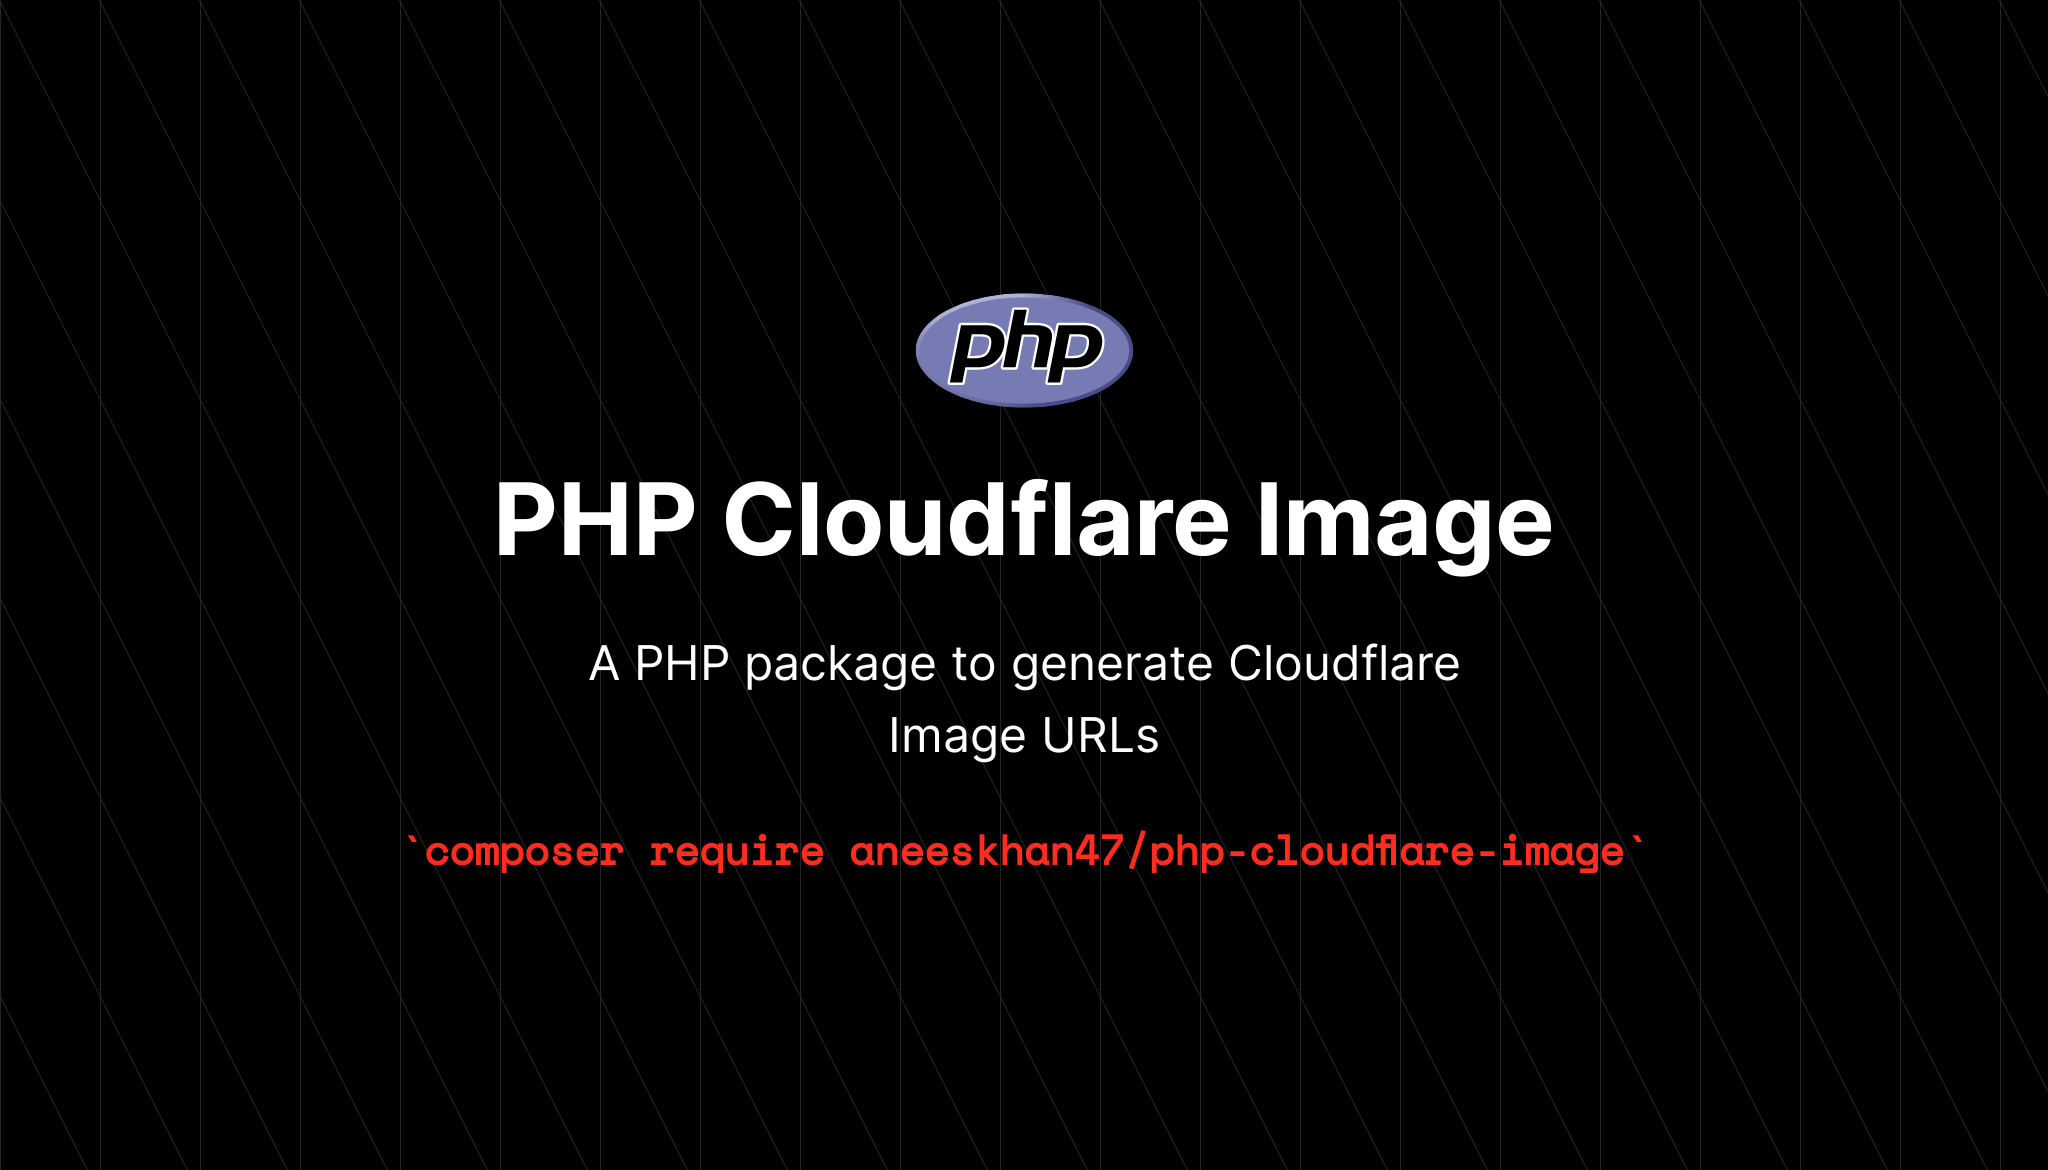
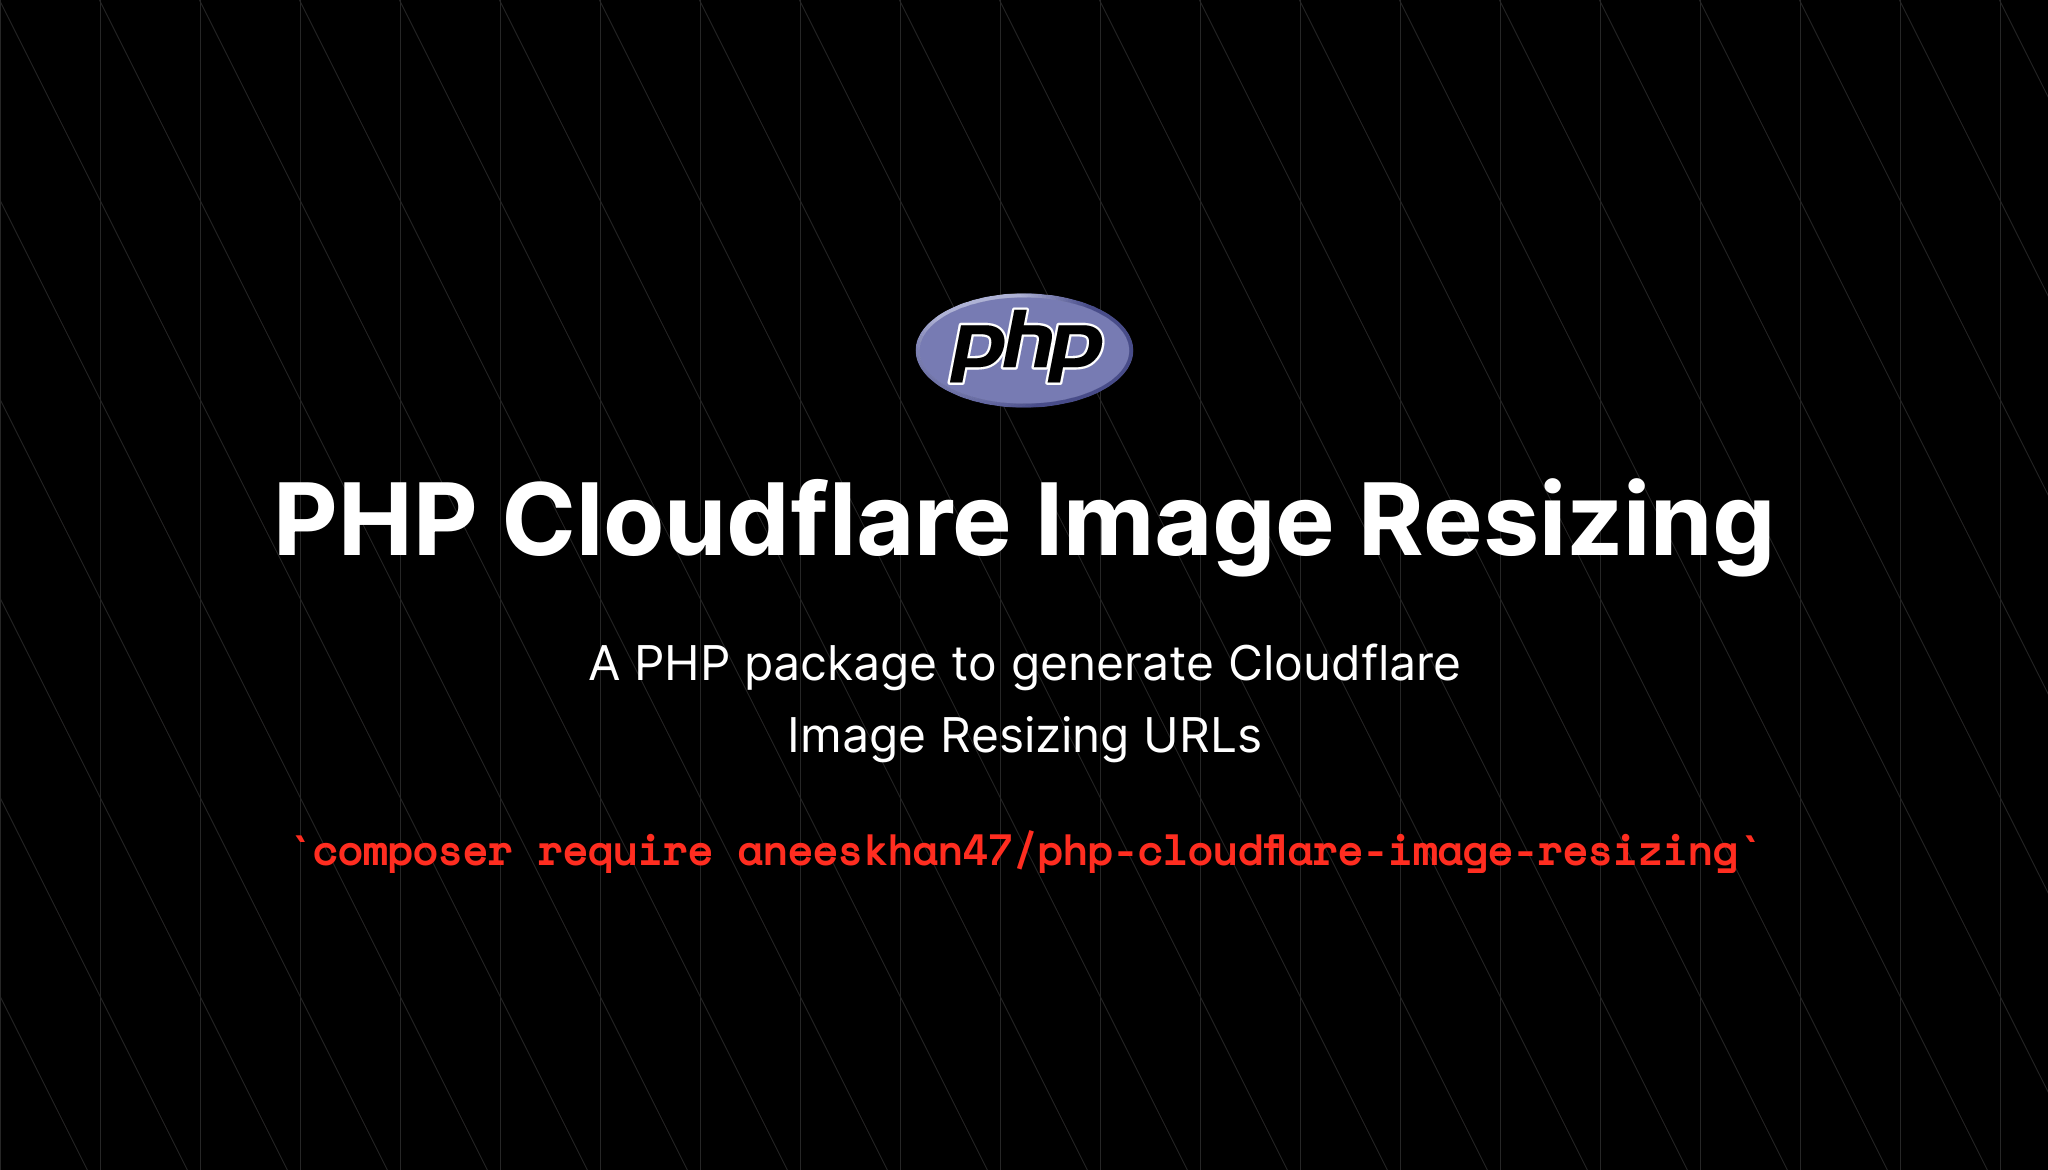
Changed package name

Changed region(s): [[0.125, 0.4, 0.875, 0.4923], [0.1562, 0.7077, 0.8438, 0.7385], [0.375, 0.6154, 0.625, 0.6462]]

diff --git a/tests/CFImageTest.php b/tests/CFImageTest.php
@@ -1,11 +1,11 @@
 <?php
 
-use AneesKhan47\CloudflareImage\CFImage;
+use AneesKhan47\CloudflareImageResizing\CFImageResizing;
 
 it('will modify the image url to have /cdn-cgi/image', function () {
     $url = 'https://example.com/image.jpg';
 
-    $cfImage = CFImage::make($url);
+    $cfImage = CFImageResizing::make($url);
 
     expect($cfImage->build())->toBe('https://example.com/cdn-cgi/image/image.jpg');
 });
@@ -13,7 +13,7 @@ it('will modify the image url to have /cdn-cgi/image', function () {
 it('will modify the image url to have /cdn-cgi/image if the url has a path', function () {
     $url = 'https://example.com/uploads/2023/image.jpg';
 
-    $cfImage = CFImage::make($url);
+    $cfImage = CFImageResizing::make($url);
 
     expect($cfImage->build())->toBe('https://example.com/cdn-cgi/image/uploads/2023/image.jpg');
 });
@@ -21,7 +21,7 @@ it('will modify the image url to have /cdn-cgi/image if the url has a path', fun
 it('will modify the image url to have /cdn-cgi/image with options', function () {
     $url = 'https://example.com/image.jpg';
 
-    $cfImage = CFImage::make($url)
+    $cfImage = CFImageResizing::make($url)
         ->width(300)
         ->height(300)
         ->jpeg()
@@ -33,7 +33,7 @@ it('will modify the image url to have /cdn-cgi/image with options', function () 
 it('will not modify the image url if it already has /cdn-cgi/image', function () {
     $url = 'https://example.com/cdn-cgi/image/image.jpg';
 
-    $cfImage = CFImage::make($url);
+    $cfImage = CFImageResizing::make($url);
 
     expect($cfImage->build())->toBe('https://example.com/cdn-cgi/image/image.jpg');
 });

diff --git a/src/CFImageResizing.php b/src/CFImageResizing.php
@@ -2,17 +2,17 @@
 
 declare(strict_types=1);
 
-namespace AneesKhan47\CloudflareImage;
+namespace AneesKhan47\CloudflareImageResizing;
 
-use AneesKhan47\CloudflareImage\Concerns\HasOptions;
+use AneesKhan47\CloudflareImageResizing\Concerns\HasOptions;
 use Exception;
 
-final class CFImage
+final class CFImageResizing
 {
     use HasOptions;
 
     /**
-     * Create a new CFImage instance.
+     * Create a new CFImageResizing instance.
      *
      * @param  string|null  $url  The image URL.
      * @return void
@@ -23,7 +23,7 @@ final class CFImage
     }
 
     /**
-     * Make a new CFImage instance.
+     * Make a new CFImageResizing instance.
      *
      * @param  string|null  $url  The image URL.
      */

diff --git a/src/Concerns/HasOptions.php b/src/Concerns/HasOptions.php
@@ -2,7 +2,7 @@
 
 declare(strict_types=1);
 
-namespace AneesKhan47\CloudflareImage\Concerns;
+namespace AneesKhan47\CloudflareImageResizing\Concerns;
 
 trait HasOptions
 {

diff --git a/README.md b/README.md
@@ -1,16 +1,16 @@
 <p align="center">
-    <img src="https://raw.githubusercontent.com/aneeskhan47/php-cloudflare-image/main/art/banner.png" height="300" alt="PHP Cloudflare Image">
+    <img src="https://raw.githubusercontent.com/aneeskhan47/php-cloudflare-image-resizing/main/art/banner.png" height="300" alt="PHP Cloudflare Image">
     <p align="center">
-        <a href="https://github.com/aneeskhan47/php-cloudflare-image/actions"><img alt="GitHub Workflow Status (master)" src="https://github.com/aneeskhan47/php-cloudflare-image/actions/workflows/tests.yml/badge.svg"></a>
-        <a href="https://packagist.org/packages/aneeskhan47/php-cloudflare-image"><img alt="Total Downloads" src="https://img.shields.io/packagist/dt/aneeskhan47/php-cloudflare-image"></a>
-        <a href="https://packagist.org/packages/aneeskhan47/php-cloudflare-image"><img alt="Latest Version" src="https://img.shields.io/packagist/v/aneeskhan47/php-cloudflare-image"></a>
-        <a href="https://packagist.org/packages/aneeskhan47/php-cloudflare-image"><img alt="License" src="https://img.shields.io/packagist/l/aneeskhan47/php-cloudflare-image"></a>
+        <a href="https://github.com/aneeskhan47/php-cloudflare-image-resizing/actions"><img alt="GitHub Workflow Status (master)" src="https://github.com/aneeskhan47/php-cloudflare-image-resizing/actions/workflows/tests.yml/badge.svg"></a>
+        <a href="https://packagist.org/packages/aneeskhan47/php-cloudflare-image-resizing"><img alt="Total Downloads" src="https://img.shields.io/packagist/dt/aneeskhan47/php-cloudflare-image-resizing"></a>
+        <a href="https://packagist.org/packages/aneeskhan47/php-cloudflare-image-resizing"><img alt="Latest Version" src="https://img.shields.io/packagist/v/aneeskhan47/php-cloudflare-image-resizing"></a>
+        <a href="https://packagist.org/packages/aneeskhan47/php-cloudflare-image-resizing"><img alt="License" src="https://img.shields.io/packagist/l/aneeskhan47/php-cloudflare-image-resizing"></a>
     </p>
 </p>
 
 ------
 
-A PHP package to generate Cloudflare Image URLs. based on [Cloudflare Image Resizing](https://developers.cloudflare.com/images/url-format).
+A PHP package to generate Cloudflare Image Resizing URLs. based on [Cloudflare Image Resizing](https://developers.cloudflare.com/images/url-format).
 
 > [!IMPORTANT]  
 > Your domain/website must be on Cloudflare to use this package.
@@ -19,7 +19,7 @@ A PHP package to generate Cloudflare Image URLs. based on [Cloudflare Image Resi
 > **Requires [PHP 8.2+](https://php.net/releases/)**
 
 ```bash
-composer require aneeskhan47/php-cloudflare-image
+composer require aneeskhan47/php-cloudflare-image-resizing
 ```
 
 ------
@@ -39,11 +39,11 @@ This package provides a fluent API to generate Cloudflare Image Resizing URLs.
 ### 🚀 Usage
 
 ```php
-use AneesKhan47\CloudflareImage\CFImage;
+use AneesKhan47\CloudflareImageResizing\CFImageResizing;
 
 $url = 'https://example.com/uploads/2023/image.jpg';
 
-$image = CFImage::make($url)
+$image = CFImageResizing::make($url)
                 ->width(300)
                 ->height(300)
                 ->webp()
